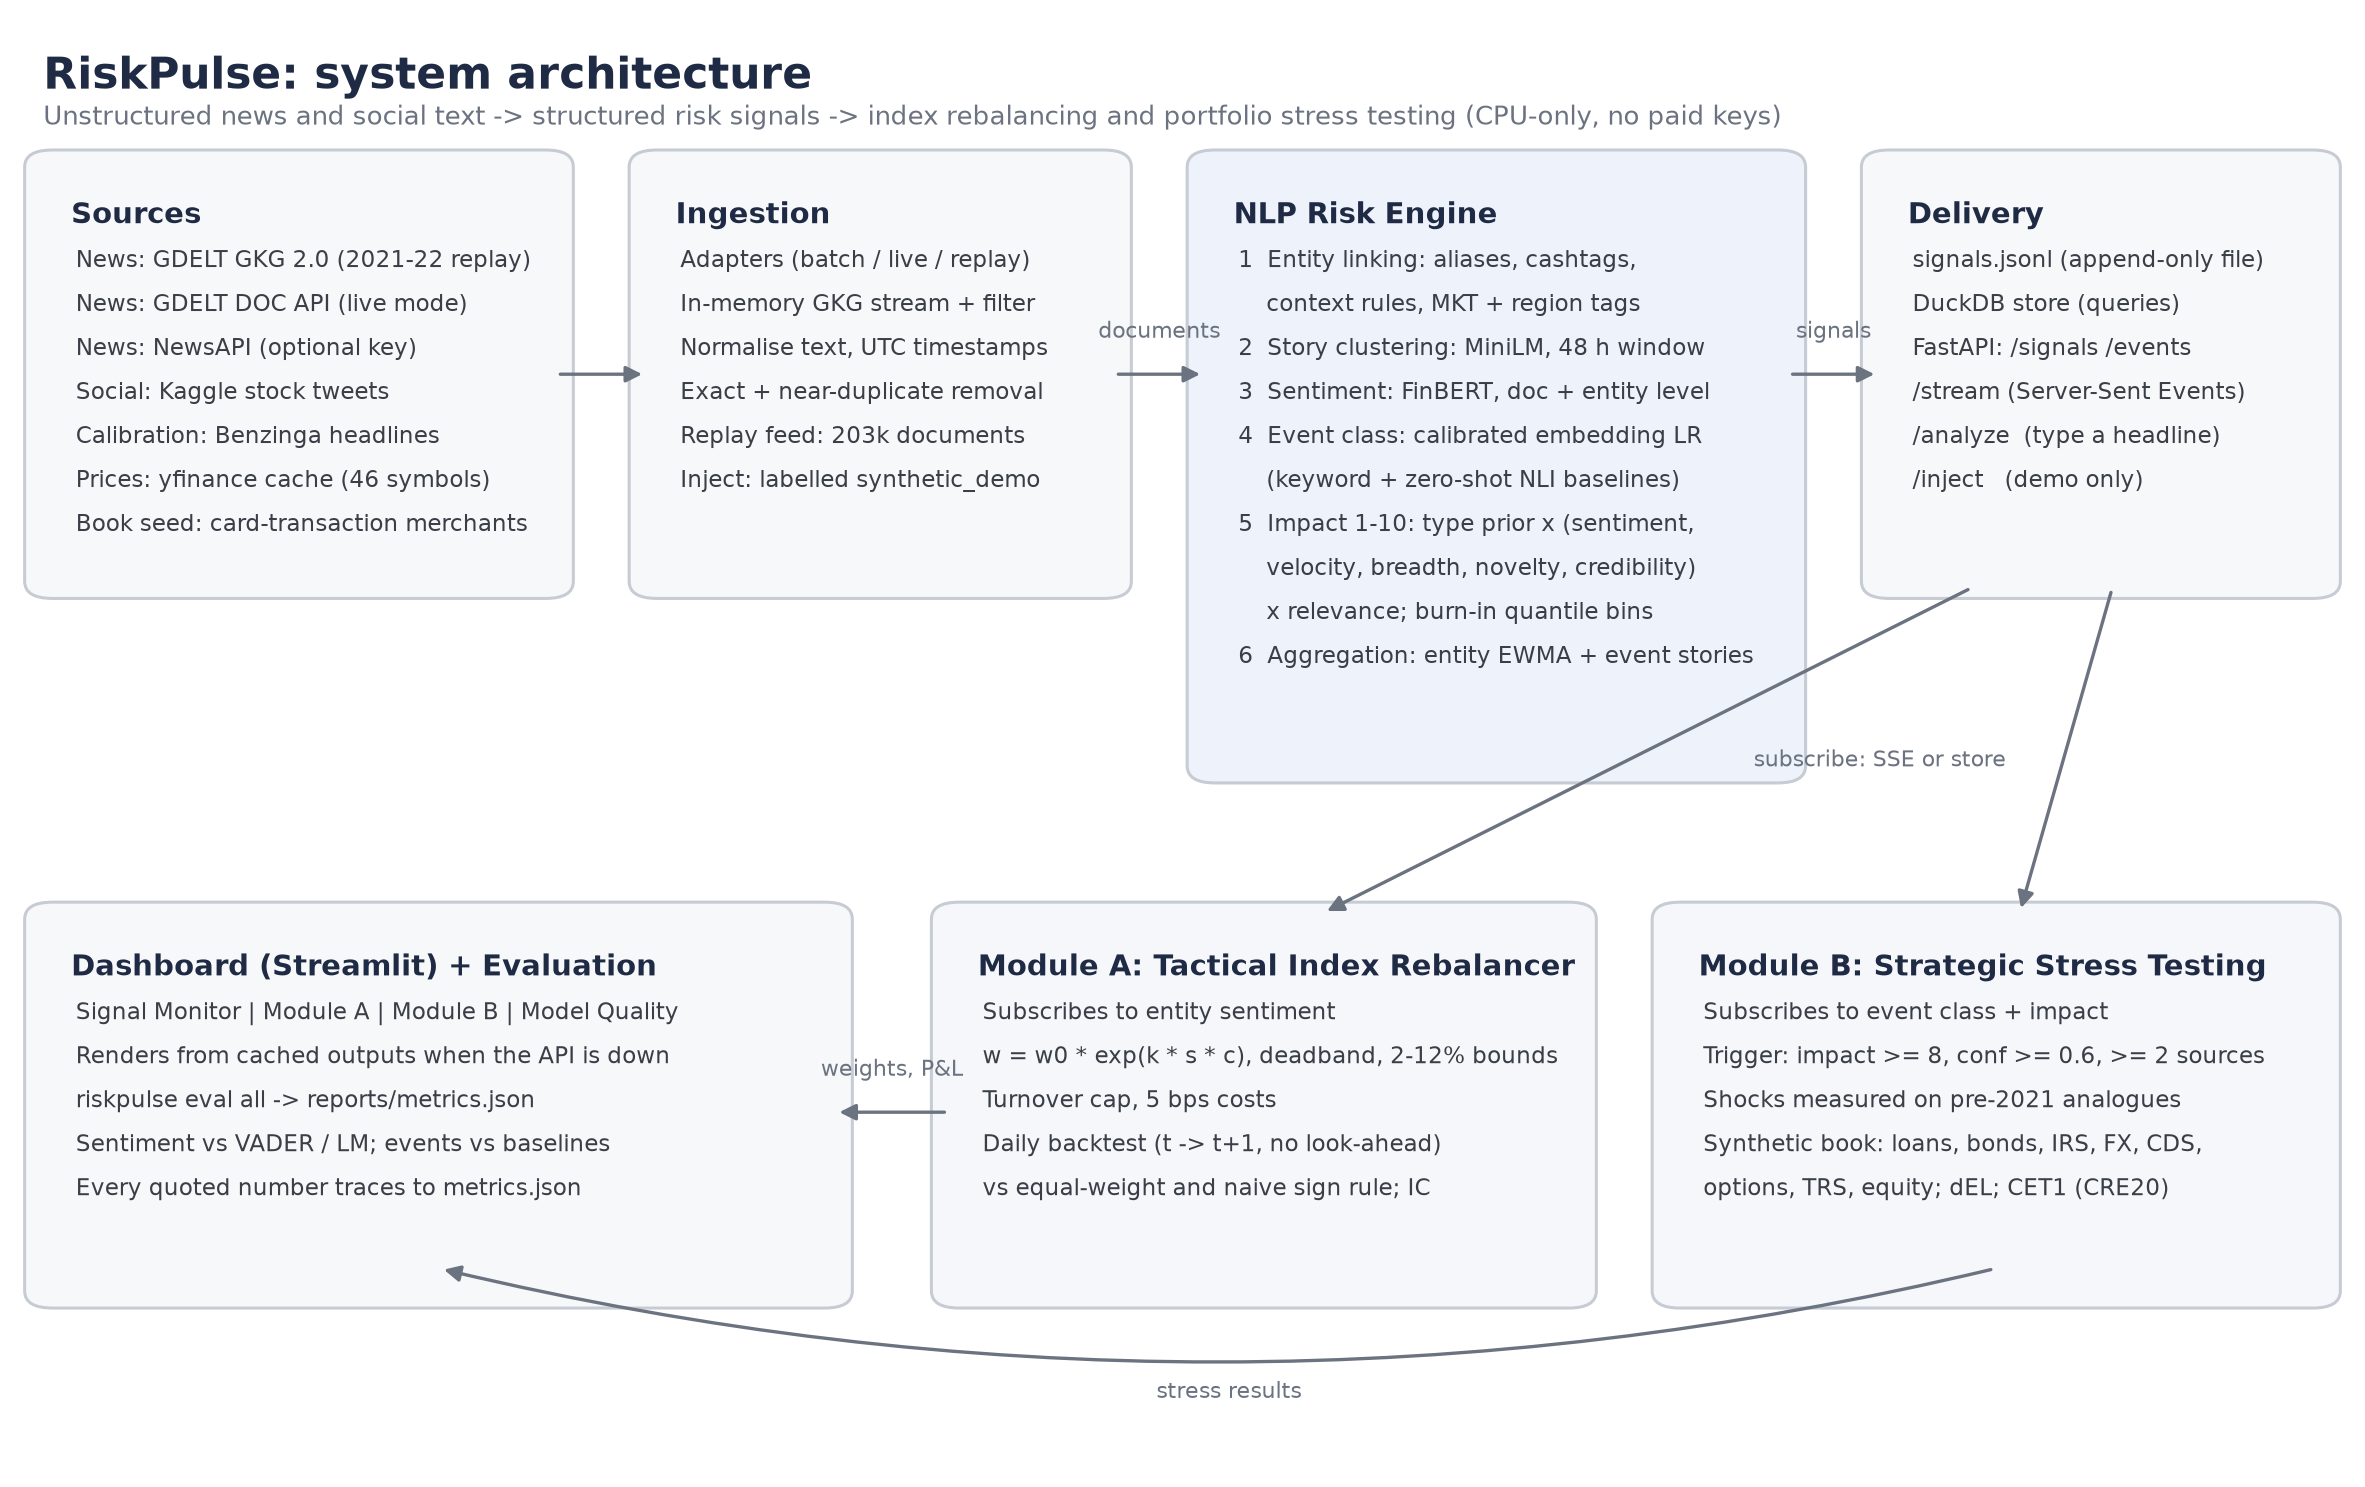
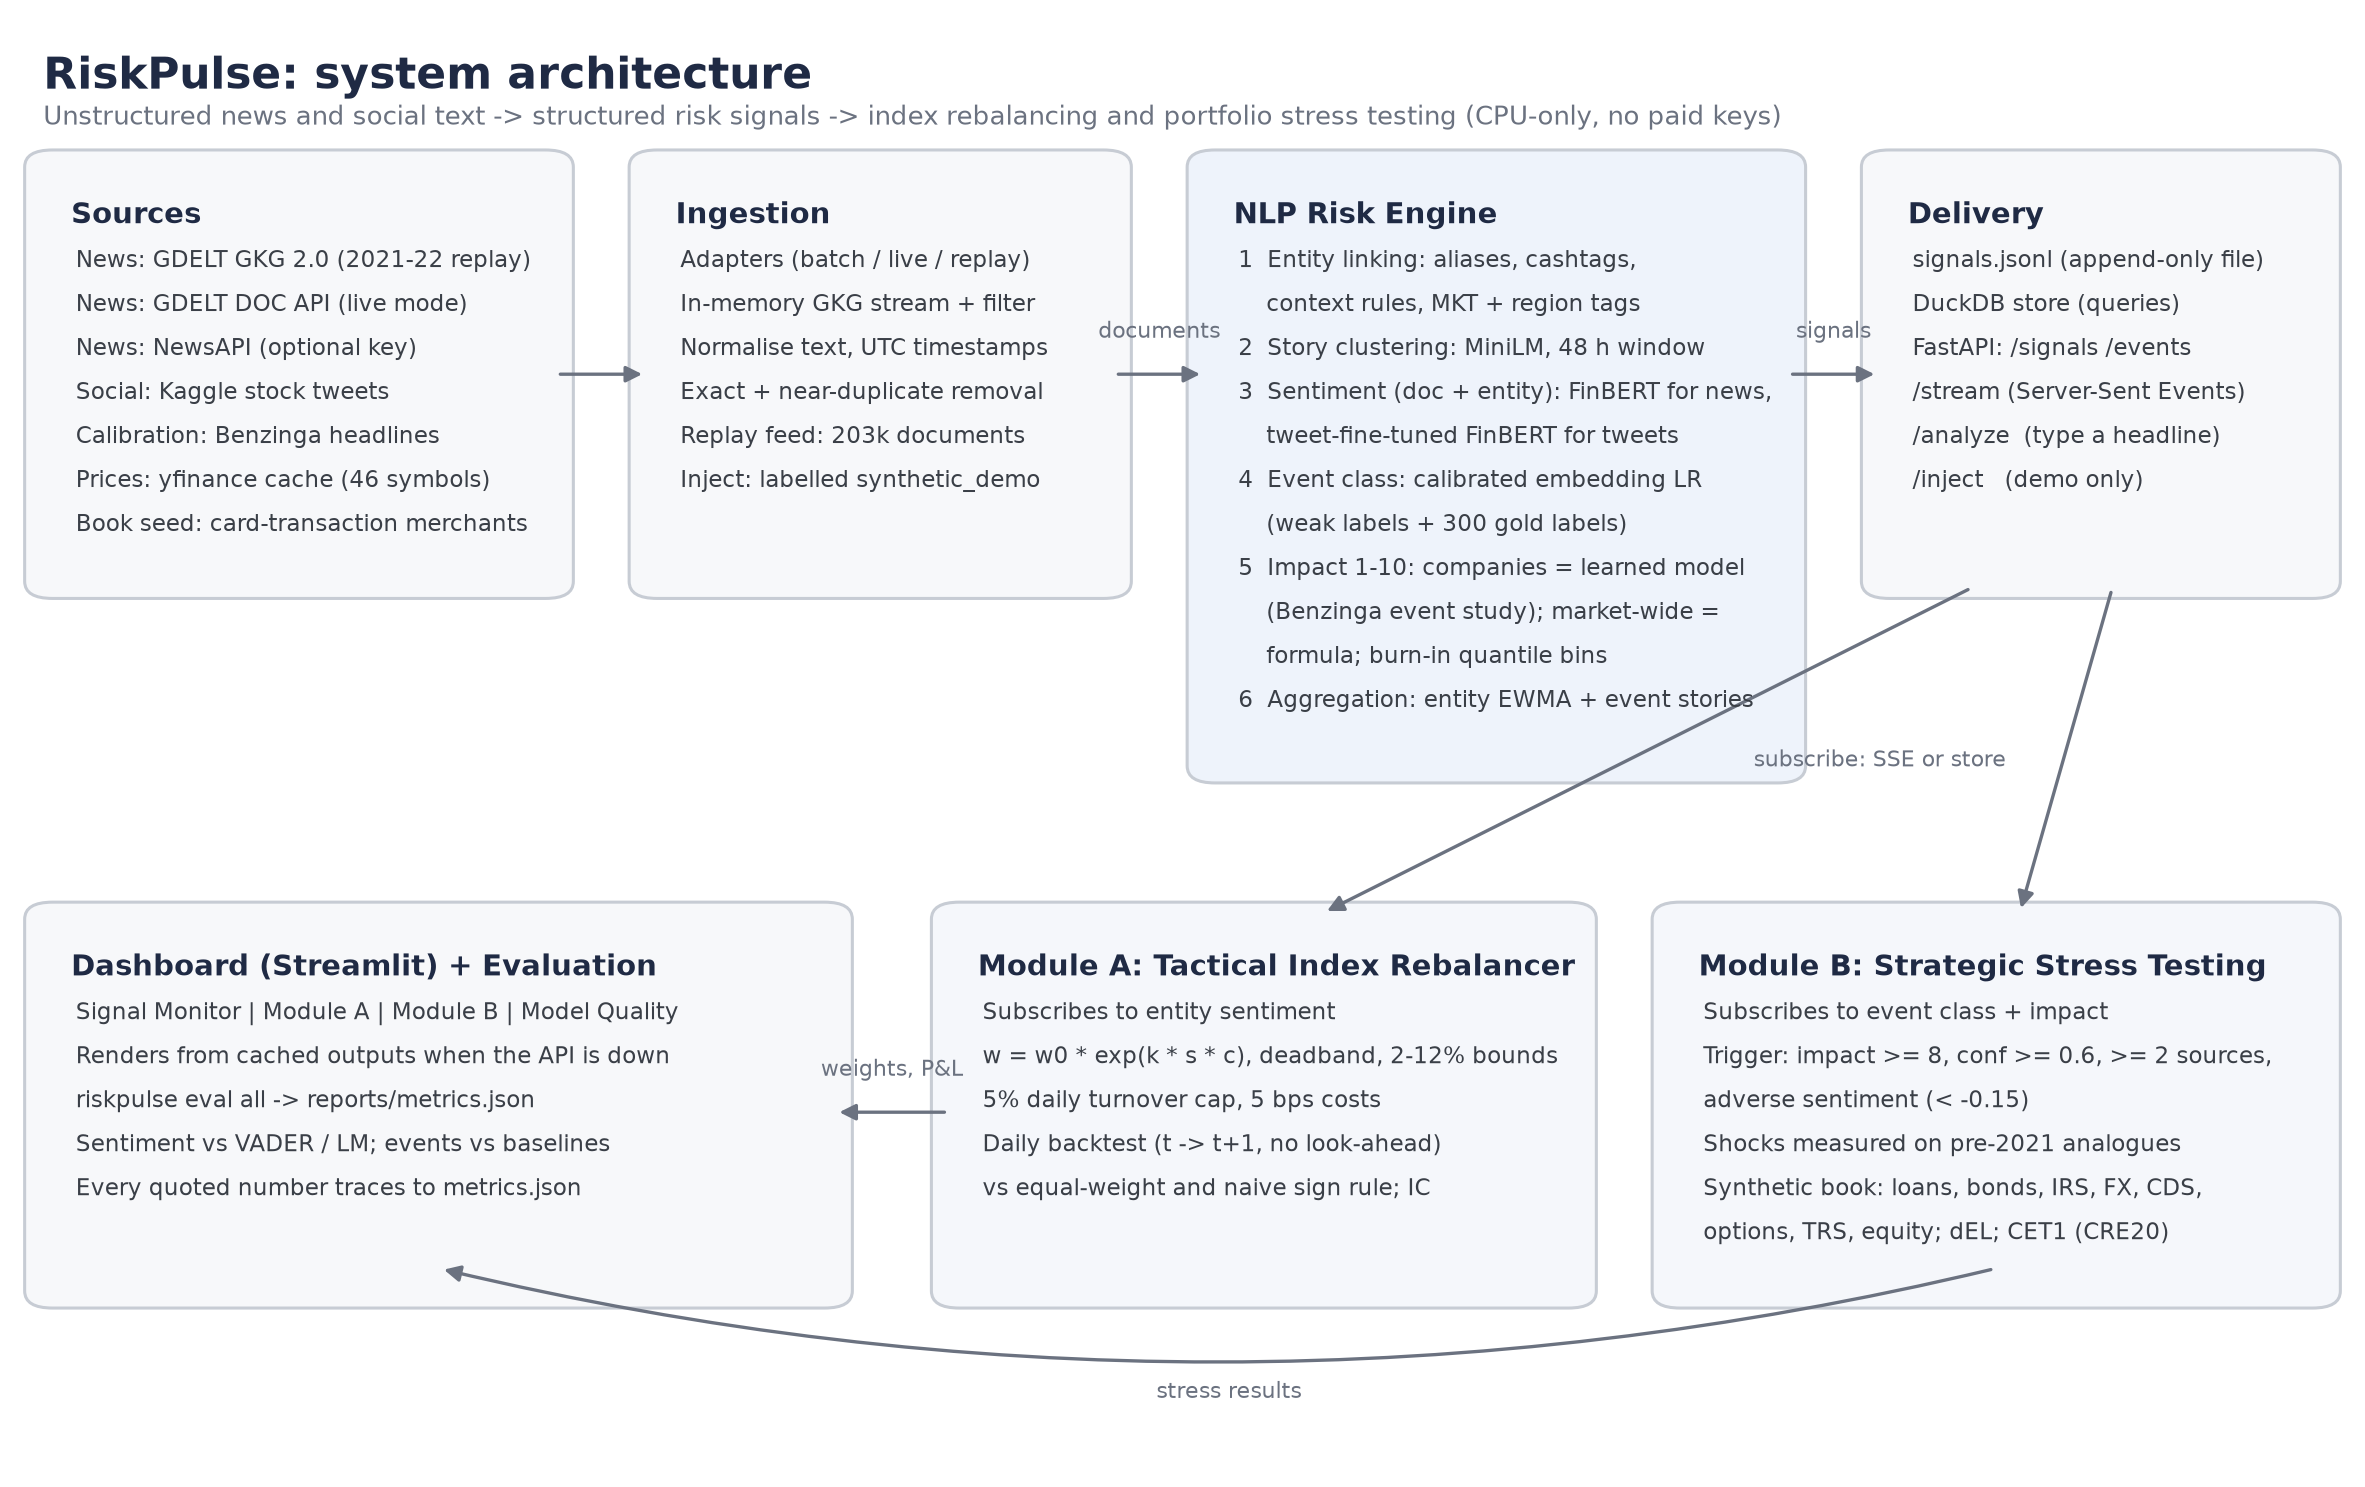
docs: architecture diagram for the final system; demo headline that shows entity-level sentiment with the news model; CI asserts it

Changed region(s): [[0.5247, 0.2475, 0.7408, 0.495], [0.7099, 0.7115, 0.926, 0.8352], [0.4321, 0.7115, 0.5556, 0.7424]]

diff --git a/scripts/make_architecture_diagram.py b/scripts/make_architecture_diagram.py
@@ -127,12 +127,13 @@ def main() -> None:
             "1  Entity linking: aliases, cashtags,",
             "    context rules, MKT + region tags",
             "2  Story clustering: MiniLM, 48 h window",
-            "3  Sentiment: FinBERT, doc + entity level",
+            "3  Sentiment (doc + entity): FinBERT for news,",
+            "    tweet-fine-tuned FinBERT for tweets",
             "4  Event class: calibrated embedding LR",
-            "    (keyword + zero-shot NLI baselines)",
-            "5  Impact 1-10: type prior x (sentiment,",
-            "    velocity, breadth, novelty, credibility)",
-            "    x relevance; burn-in quantile bins",
+            "    (weak labels + 300 gold labels)",
+            "5  Impact 1-10: companies = learned model",
+            "    (Benzinga event study); market-wide =",
+            "    formula; burn-in quantile bins",
             "6  Aggregation: entity EWMA + event stories",
         ],
         fill=FILL_ENGINE,
@@ -163,7 +164,7 @@ def main() -> None:
         [
             "Subscribes to entity sentiment",
             "w = w0 * exp(k * s * c), deadband, 2-12% bounds",
-            "Turnover cap, 5 bps costs",
+            "5% daily turnover cap, 5 bps costs",
             "Daily backtest (t -> t+1, no look-ahead)",
             "vs equal-weight and naive sign rule; IC",
         ],
@@ -178,7 +179,8 @@ def main() -> None:
         "Module B: Strategic Stress Testing",
         [
             "Subscribes to event class + impact",
-            "Trigger: impact >= 8, conf >= 0.6, >= 2 sources",
+            "Trigger: impact >= 8, conf >= 0.6, >= 2 sources,",
+            "adverse sentiment (< -0.15)",
             "Shocks measured on pre-2021 analogues",
             "Synthetic book: loans, bonds, IRS, FX, CDS,",
             "options, TRS, equity; dEL; CET1 (CRE20)",

diff --git a/docs/drafts/codespace_fresh_clone_test.md b/docs/drafts/codespace_fresh_clone_test.md
@@ -54,7 +54,7 @@ grep "model origin" serve.log
 grep -c "FALLBACK IN USE" serve.log          # expect 0
 curl -s http://127.0.0.1:8000/health
 time curl -s -X POST http://127.0.0.1:8000/analyze -H 'Content-Type: application/json' \
-  -d '{"text": "JPMorgan beats estimates while Bank of America misses"}' | python -m json.tool | head -40
+  -d '{"text": "Exxon posts record quarterly profit while Chevron cuts its outlook"}' | python -m json.tool | head -40
 ```
 
 ### What to check
@@ -66,7 +66,7 @@ time curl -s -X POST http://127.0.0.1:8000/analyze -H 'Content-Type: application
 | `model origin | impact_company` | `repo:data/trained/impact_v2.json` |
 | `model origin | embeddings` | `hub:sentence-transformers/all-MiniLM-L6-v2` |
 | `FALLBACK IN USE` lines | **0** |
-| `/analyze` | JSON with `sentiment_score`, `event_class`, `entities` (each with its own `sentiment_score`, `impact_score` and `drivers`; JPM and BAC should get different clause-level scores) and `model_versions` (`news:finbert@…; social:finbert-tweets-ft`); well under 1 s after start-up |
+| `/analyze` | JSON with `sentiment_score`, `event_class`, `entities` (each with its own `sentiment_score`, `impact_score` and `drivers`; expect XOM positive and CVX negative, as in CI: XOM +0.64, CVX −0.94) and `model_versions` (`news:finbert@…; social:finbert-tweets-ft`); well under 1 s after start-up |
 
 ## 7. Optional: full demo with the dashboard and live replay
 Stop `serve` (Ctrl+C), then:

diff --git a/docs/drafts/deck_content.md b/docs/drafts/deck_content.md
@@ -52,7 +52,8 @@ Visual: `docs/architecture.png`.
 
 ## Slide 4: Implementation highlights (what and why)
 
-- **Entity-level sentiment:** "JPM beats while BAC misses" scores each bank separately. News uses FinBERT (better
+- **Entity-level sentiment:** "Exxon posts record quarterly profit while Chevron cuts its outlook" gives Exxon +0.64
+  and Chevron −0.94; a whole-sentence score (−0.95) would wrongly mark Exxon negative. News uses FinBERT (better
   on labelled live news); tweets use the tweet-fine-tuned model (the two score about the same on tweets).
 - **Impact v2:** monotone gradient boosting learned on 2009-18 Benzinga headlines vs abnormal returns. Scored live
   from per-session aggregates (no look-ahead), with every score's drivers shown.

diff --git a/docs/drafts/video_script.md b/docs/drafts/video_script.md
@@ -51,7 +51,8 @@ Show briefly: the `model origin` log lines (repo / hub, no FALLBACK), then `127.
 Actions:
 1. Document feed: headlines arriving with entity, sentiment, event class and impact.
 2. Event signals: select a story; show the "Impact drivers (0-1)" chart and its evidence.
-3. Analyze a headline: "JPMorgan beats estimates while Bank of America misses" shows per-company sentiment.
+3. Analyze a headline: "Exxon posts record quarterly profit while Chevron cuts its outlook" gives Exxon +0.64 and Chevron −0.94, while the whole sentence scores −0.95. Rehearse
+   it; these are the deployed news model's values.
 
 Voice-over:
 > "Each item is linked to companies or to the market, scored for sentiment with FinBERT for news and a tweet-tuned
